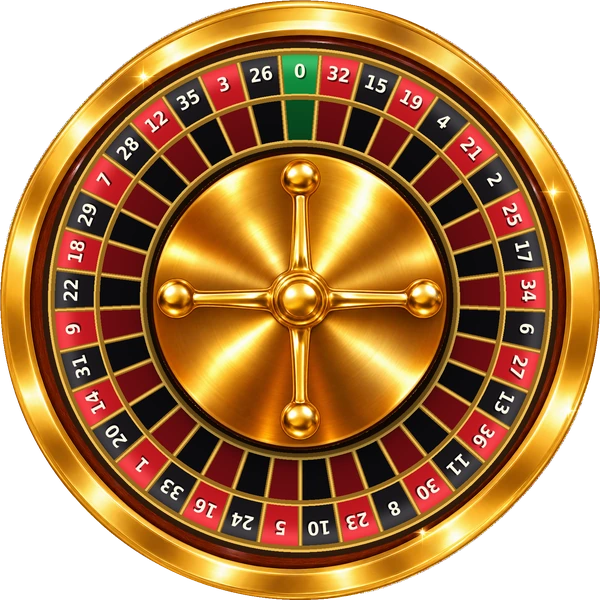
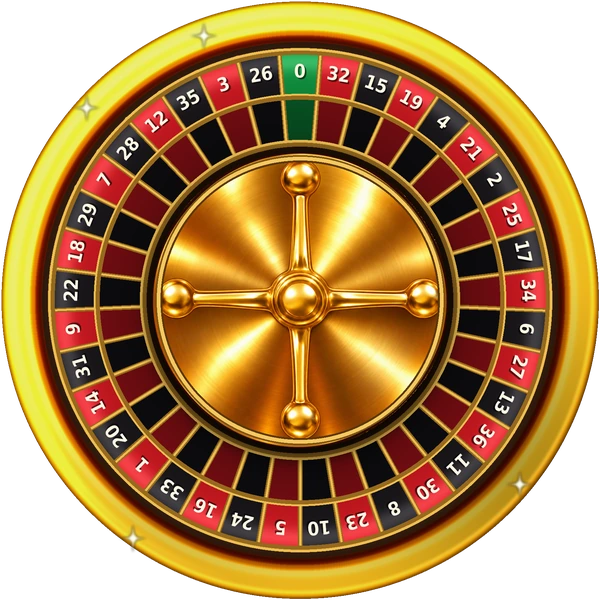
Roulette wheel: perfectly round rim (rebuilt rotationally from the painted rim) and exact turret edge
Claude-Session: https://claude.ai/code/session_01PGxfpcX8yQ2dVm6AUd14bJ

diff --git a/index.html b/index.html
@@ -18,7 +18,7 @@
   <link href="https://fonts.googleapis.com/css2?family=Lilita+One&display=swap" rel="stylesheet">
   <meta property="og:image" content="assets/logo/share.jpg">
   <meta name="twitter:card" content="summary_large_image">
-  <link rel="stylesheet" href="css/style.css?v=20261118u">
+  <link rel="stylesheet" href="css/style.css?v=20261118v">
 </head>
 <body>
   <!-- ===== Loading screen (removed when the game has started) ===== -->
@@ -567,33 +567,33 @@
   <div id="tipCard" hidden role="status"></div>
   <div id="tutBubble" hidden role="dialog" aria-label="Guided start"></div>
   <!-- Game code, split by section. Files share one global scope and must load in this order. -->
-  <script src="js/00-phone.js?v=20261118u"></script>
-  <script src="js/01-core.js?v=20261118u"></script>
-  <script src="js/02-income.js?v=20261118u"></script>
-  <script src="js/03-casino.js?v=20261118u"></script>
-  <script src="js/04-investing.js?v=20261118u"></script>
-  <script src="js/05-settings.js?v=20261118u"></script>
-  <script src="js/06-casino-cards.js?v=20261118u"></script>
-  <script src="js/07-boosters.js?v=20261118u"></script>
-  <script src="js/08-sky-climb.js?v=20261118u"></script>
-  <script src="js/09-special.js?v=20261118u"></script>
-  <script src="js/10-plinko.js?v=20261118u"></script>
-  <script src="js/11-cosmetics.js?v=20261118u"></script>
-  <script src="js/12-logistics.js?v=20261118u"></script>
-  <script src="js/13-live-trading.js?v=20261118u"></script>
-  <script src="js/14-world-map.js?v=20261118u"></script>
-  <script src="js/15-achievements.js?v=20261118u"></script>
-  <script src="js/16-prestige.js?v=20261118u"></script>
-  <script src="js/17-wiki.js?v=20261118u"></script>
-  <script src="js/18-art.js?v=20261118u"></script>
-  <script src="js/19-science.js?v=20261118u"></script>
-  <script src="js/20-tips.js?v=20261118u"></script>
-  <script src="js/21-clock.js?v=20261118u"></script>
-  <script src="js/22-main-menu.js?v=20261118u"></script>
-  <script src="js/23-minigames.js?v=20261118u"></script>
-  <script src="js/24-genetics.js?v=20261118u"></script>
-  <script src="js/25-baccarat.js?v=20261118u"></script>
-  <script src="js/26-slot-engine.js?v=20261118u"></script>
-  <script src="js/27-gene-cascade.js?v=20261118u"></script>
+  <script src="js/00-phone.js?v=20261118v"></script>
+  <script src="js/01-core.js?v=20261118v"></script>
+  <script src="js/02-income.js?v=20261118v"></script>
+  <script src="js/03-casino.js?v=20261118v"></script>
+  <script src="js/04-investing.js?v=20261118v"></script>
+  <script src="js/05-settings.js?v=20261118v"></script>
+  <script src="js/06-casino-cards.js?v=20261118v"></script>
+  <script src="js/07-boosters.js?v=20261118v"></script>
+  <script src="js/08-sky-climb.js?v=20261118v"></script>
+  <script src="js/09-special.js?v=20261118v"></script>
+  <script src="js/10-plinko.js?v=20261118v"></script>
+  <script src="js/11-cosmetics.js?v=20261118v"></script>
+  <script src="js/12-logistics.js?v=20261118v"></script>
+  <script src="js/13-live-trading.js?v=20261118v"></script>
+  <script src="js/14-world-map.js?v=20261118v"></script>
+  <script src="js/15-achievements.js?v=20261118v"></script>
+  <script src="js/16-prestige.js?v=20261118v"></script>
+  <script src="js/17-wiki.js?v=20261118v"></script>
+  <script src="js/18-art.js?v=20261118v"></script>
+  <script src="js/19-science.js?v=20261118v"></script>
+  <script src="js/20-tips.js?v=20261118v"></script>
+  <script src="js/21-clock.js?v=20261118v"></script>
+  <script src="js/22-main-menu.js?v=20261118v"></script>
+  <script src="js/23-minigames.js?v=20261118v"></script>
+  <script src="js/24-genetics.js?v=20261118v"></script>
+  <script src="js/25-baccarat.js?v=20261118v"></script>
+  <script src="js/26-slot-engine.js?v=20261118v"></script>
+  <script src="js/27-gene-cascade.js?v=20261118v"></script>
 </body>
 </html>
